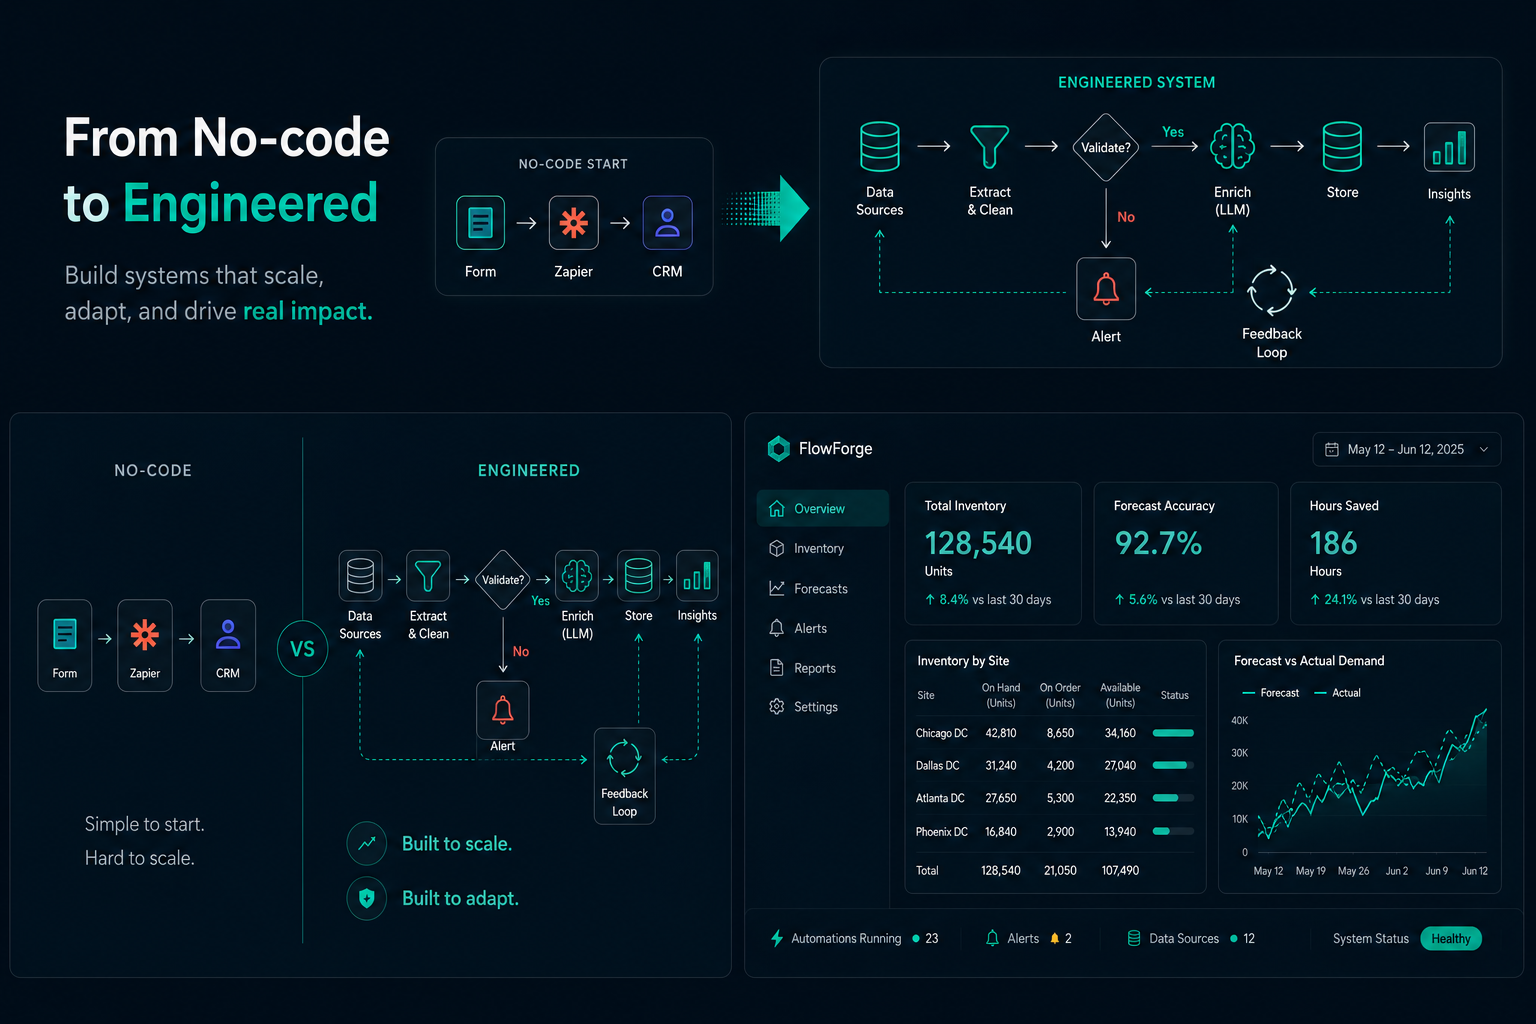
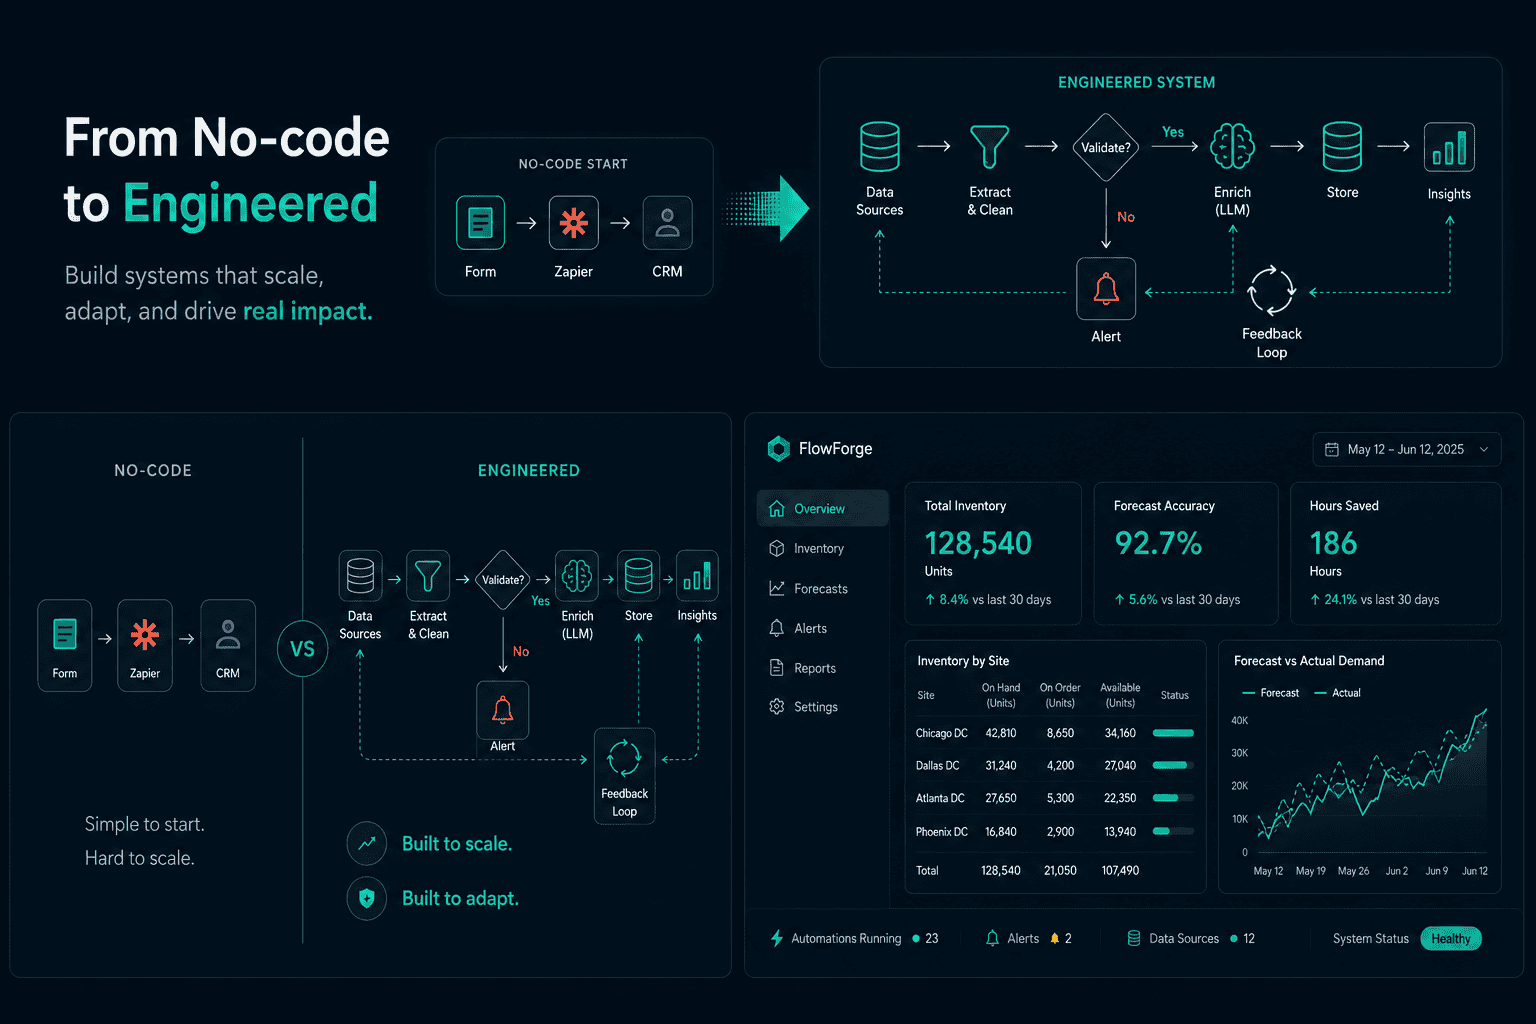
fix: imgs optimized

diff --git a/src/app/resources/page.tsx b/src/app/resources/page.tsx
@@ -16,10 +16,16 @@ export const metadata: Metadata = {
     },
 };
 
+interface FeaturedImage {
+    src: string;
+    alt: string;
+}
+
 interface PostFrontmatter {
     title: string;
     description: string;
     date: string;
+    featuredImage: FeaturedImage;
 }
 
 interface Post extends PostFrontmatter {
@@ -52,17 +58,28 @@ export default function Page() {
                         <Link
                             key={p.slug}
                             href={`/resources/${p.slug}`}
-                            className="bg-background p-10 flex items-center justify-between gap-6 hover:bg-mint-soft/30 transition-colors group"
+                            className="bg-background p-10 flex flex-col md:flex-row items-start md:items-center gap-8 hover:bg-mint-soft/30 transition-colors group"
                         >
-                            <div>
-                                <h2 className="font-display text-2xl font-medium text-foreground mb-2">
-                                    {p.title}
-                                </h2>
-                                <p className="text-foreground-soft text-sm leading-relaxed">
-                                    {p.description}
-                                </p>
+                            {p.featuredImage && (
+                                <img
+                                    src={p.featuredImage.src}
+                                    alt={p.featuredImage.alt}
+                                    width={240}
+                                    height={160}
+                                    className="w-full md:w-60 h-40 object-cover shrink-0 border border-border"
+                                />
+                            )}
+                            <div className="flex-1 flex items-center justify-between gap-6 w-full">
+                                <div>
+                                    <h2 className="font-display text-2xl font-medium text-foreground mb-2">
+                                        {p.title}
+                                    </h2>
+                                    <p className="text-foreground-soft text-sm leading-relaxed">
+                                        {p.description}
+                                    </p>
+                                </div>
+                                <ArrowUpRight className="w-5 h-5 shrink-0 transition-transform group-hover:rotate-45 hidden md:block" />
                             </div>
-                            <ArrowUpRight className="w-5 h-5 shrink-0 transition-transform group-hover:rotate-45" />
                         </Link>
                     ))}
                 </div>